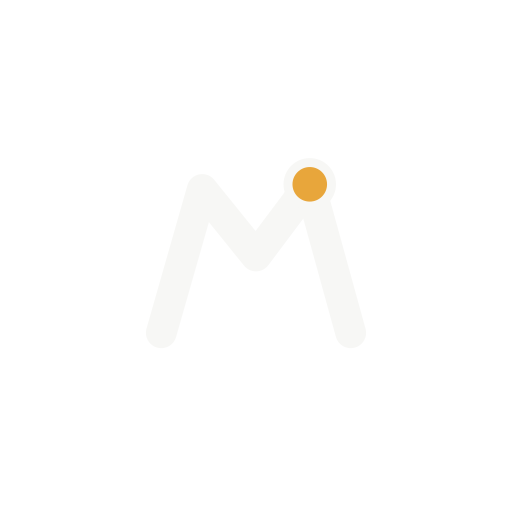
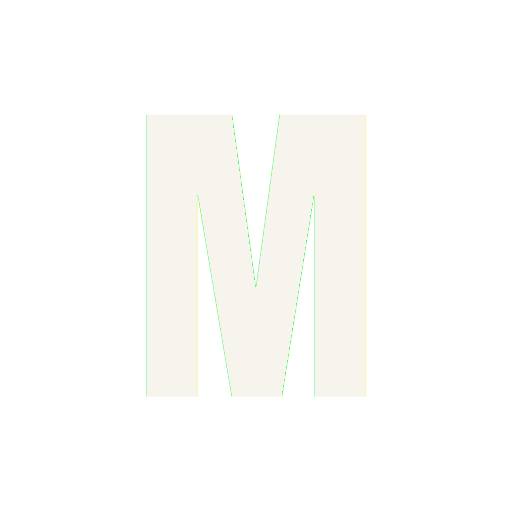
Replace Margyn brand with math-operator mark
Drop the gold M/trend-line direction for a simpler two-color mark:
a bold Anton "M" on an ink tile, paired with a 2x2 grid of the four
arithmetic operators (margin is a calculation, so the mark says that
directly). Cream background, no accent color.

Wires into the actual app (icon, adaptive icon incl. Android 13+
monochrome, favicon, splash) and replaces the brand/ source files
and lockup images.

Claude-Session: https://claude.ai/code/session_01TqX5xmjMiu9mRUtyXyXyxG

Changed region(s): [[0.5625, 0.3125, 0.6562, 0.5], [0.375, 0.4062, 0.4062, 0.5]]

diff --git a/brand/README.md b/brand/README.md
@@ -2,25 +2,39 @@
 
 ## Mark
 
-An "M" drawn as a trend line — the second peak sits higher than the first, with
-a small gold marker on it. Reads as the letter, a profit trend, and a "here's
-your current number" indicator all at once.
+A bold "M" (Anton) on a dark tile, paired with a 2×2 grid of the four
+arithmetic operators (−, +, ÷, ×) — margin is a calculation, so the mark says
+that directly instead of using an abstract trend line.
 
 ## Colors
 
 | Token | Hex | Use |
 |---|---|---|
-| Brand green | `#1F6F4A` | Primary — icon background, wordmark text, mark on light |
-| Cream | `#F7F7F5` | App background, mark on green |
-| Gold accent | `#E8A63B` | The marker dot only — don't use it as a fill color elsewhere |
+| Ink | `#231F20` | Text, icon strokes, app icon tile background |
+| Cream | `#F7F4EE` | Page background, wordmark on dark |
+
+Two colors only — no accent. Keeps it printable, keeps it legible small.
+
+## Typeface
+
+[Anton](https://fonts.google.com/specimen/Anton) (Google Fonts, OFL) — heavy,
+condensed, all-caps by convention here. Used for the wordmark, the tagline,
+and the app-icon "M".
 
 ## Files
 
-- `icon.svg` / rendered into `frontend/assets/icon.png` — full app icon (green bg + cream mark)
-- `adaptive-foreground.svg` — Android adaptive icon foreground (transparent bg)
-- `adaptive-monochrome.svg` — Android 13+ themed icon (single color, tinted by the OS)
-- `wordmark-light.svg` / `wordmark-dark.svg` — horizontal lockup for README, web, marketing
+- `icon.svg` / `icon.png` — app icon tile (ink bg, cream "M"), full-bleed square
+- `adaptive-foreground.svg` — Android adaptive icon foreground, cream "M" only,
+  transparent bg, sized to the safe zone — pairs with a flat ink-colored
+  background image
+- `lockup.svg` / `lockup.png` — primary horizontal lockup (operator grid +
+  "MARGYN"), cream bg — use anywhere there's room to run wide (README, web,
+  splash screens, print)
+- `lockup-tagline.svg` / `lockup-tagline.png` — operator grid + big "M" +
+  "KNOW YOUR MARGIN." tagline, for square-ish placements (social profile
+  images, a title screen)
 
-Regenerate PNGs from the SVGs with `cairosvg` if you tweak the source files —
-sizes used are 1024×1024 (icon/splash), 512×512 (adaptive fg/bg), 432×432
-(monochrome), 48×48 (favicon).
+Regenerate PNGs from the SVGs with `cairosvg` if you edit the source files.
+The wordmark text needs the Anton font installed locally to render correctly
+(`fc-list | grep -i anton` to check) — grab it from
+`google/fonts` (`ofl/anton/Anton-Regular.ttf`) if missing.

diff --git a/README.md b/README.md
@@ -1,4 +1,4 @@
-<img src="brand/wordmark-light.png" alt="Margyn" width="360" />
+<img src="brand/lockup.png" alt="Margyn" width="420" />
 
 **See your real profit margin on every job, while it's still open.**
 
